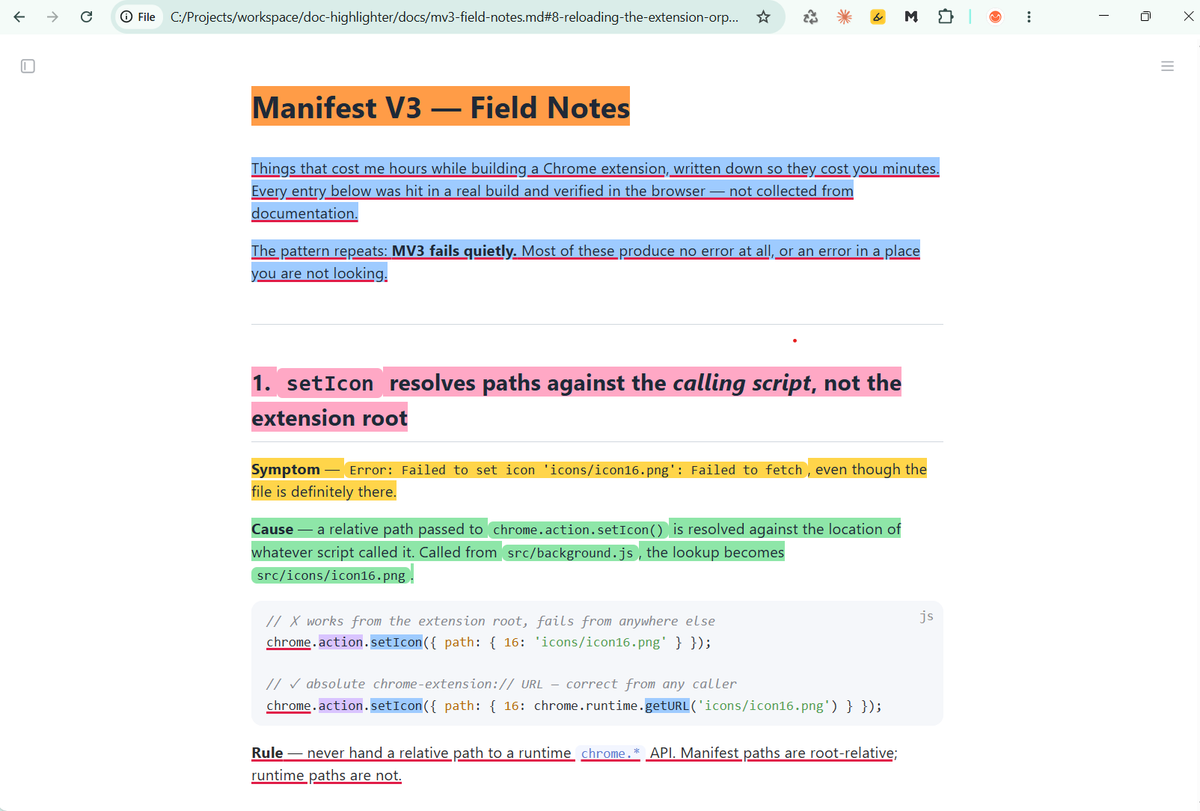
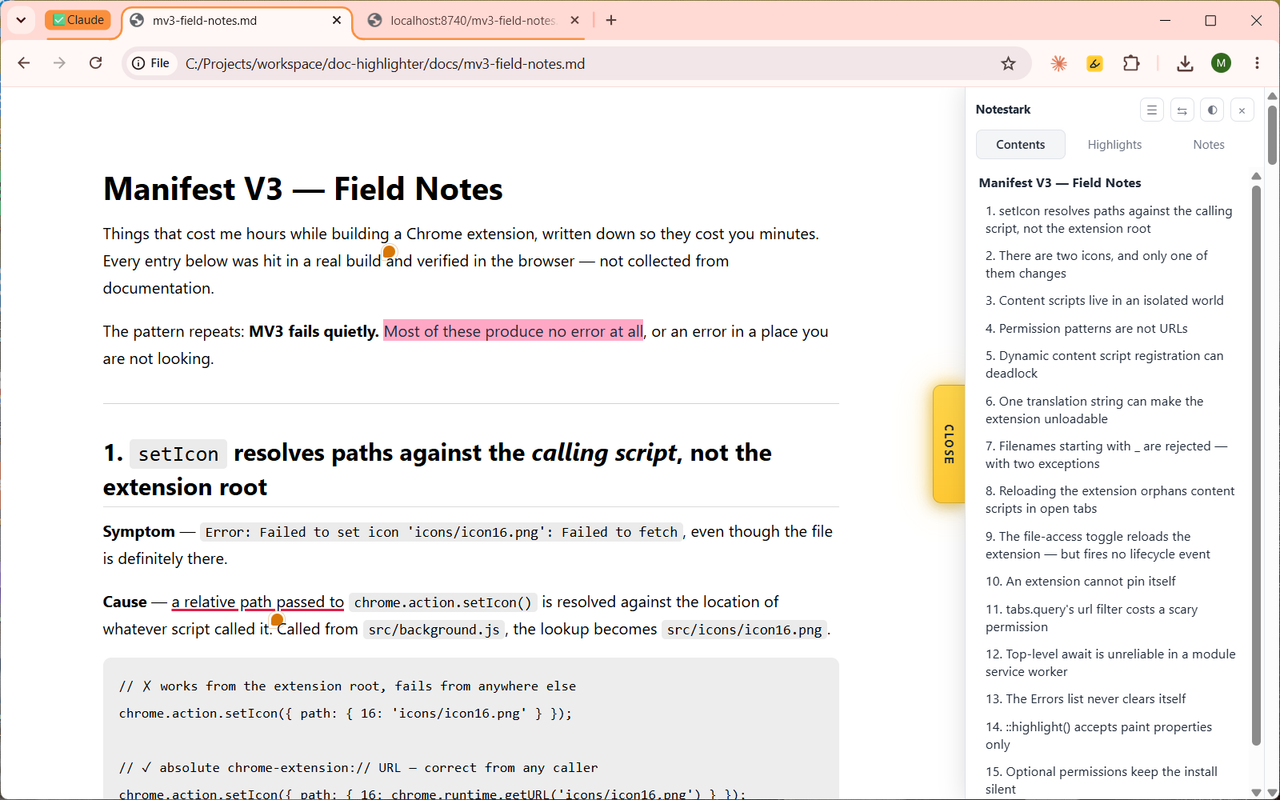
docs: refresh the screenshots and lead with the flow
The two images in the README were taken before the panel, the notes and the
translation existed, so the page they showed no longer resembles the extension.
Both are replaced with captures of the current build, and a short GIF goes first
because the one thing worth showing is the thing a still cannot: select, colour,
annotate, reload, and the marks are still there.

The local-file shot is a genuine file:// capture, not the localhost copy used for
the other work. That address bar is the product's whole difference from every
other highlighter, and a screenshot of http://localhost would quietly give it
away.

diff --git a/README.md b/README.md
@@ -5,15 +5,21 @@ Your marks come back when you reopen the document.
 
 *[Türkçe dokümantasyon → README.tr.md](README.tr.md)*
 
+![Selecting a passage, colouring it, writing a note, and reloading the page](docs/img/notestark-flow.gif)
+
+*Select, colour, annotate — then reload. The marks are still there, and so is the note.*
+
 ![Highlighting a local Markdown file](docs/img/local-md.png)
 
-*A local `.md` file opened straight from disk — six colours, underline, and colour and
-underline combined. Note the `file://` address: no server, no upload, no account.*
+*A local `.md` file opened straight from disk, rendered as a document rather than as a
+wall of source, with its outline in the panel. Note the `file://` address: no server, no
+upload, no account.*
 
 ![Highlighting a page on the web](docs/img/web-mdn.png)
 
-*The same engine on the web. Inline `code` chips are covered edge to edge — the
-highlight API paints text runs, so an element's own padding needs filling separately.*
+*The same engine on the web, with every mark on the page listed in the panel. Inline
+`code` chips are covered edge to edge — the highlight API paints text runs, so an
+element's own padding needs filling separately.*
 
 ---
 

diff --git a/README.tr.md b/README.tr.md
@@ -3,6 +3,22 @@
 Lokal `.md` / `.html` dosyalarında ve izin verdiğin web sitelerinde highlight ve
 underline; sekme kapansa da kalıcı.
 
+![Bir pasajı seçip renklendirme, not yazma ve sayfayı yenileme](docs/img/notestark-flow.gif)
+
+*Seç, renklendir, not yaz — sonra yenile. İşaretler de not da yerinde duruyor.*
+
+![Lokal bir Markdown dosyasında highlight](docs/img/local-md.png)
+
+*Diskten doğrudan açılan bir `.md` dosyası: kaynak yığını olarak değil, doküman olarak
+render ediliyor ve iskeleti panelde duruyor. Adres `file://` — sunucu yok, yükleme yok,
+hesap yok.*
+
+![Web sayfasında highlight](docs/img/web-mdn.png)
+
+*Aynı motor web'de; sayfadaki her işaret panelde listeleniyor. Satır içi `code`
+parçaları kenardan kenara kaplanıyor — highlight API'si metin akışını boyadığı için
+elementin kendi padding'i ayrıca doldurulmalı.*
+
 | Sürüm | Ne geldi |
 |---|---|
 | **0.10.1** | Panel handle'i markanin sarisiyla ve glow ile cizildi — onceki hali panelin kendi soluk renklerindeydi ve yogun bir sayfada gorunmuyordu. Genislik degisimi rezerve edilen sayfa margin'ine kendiliginden yansidi (ikisi ayni sabiti okuyor) |
